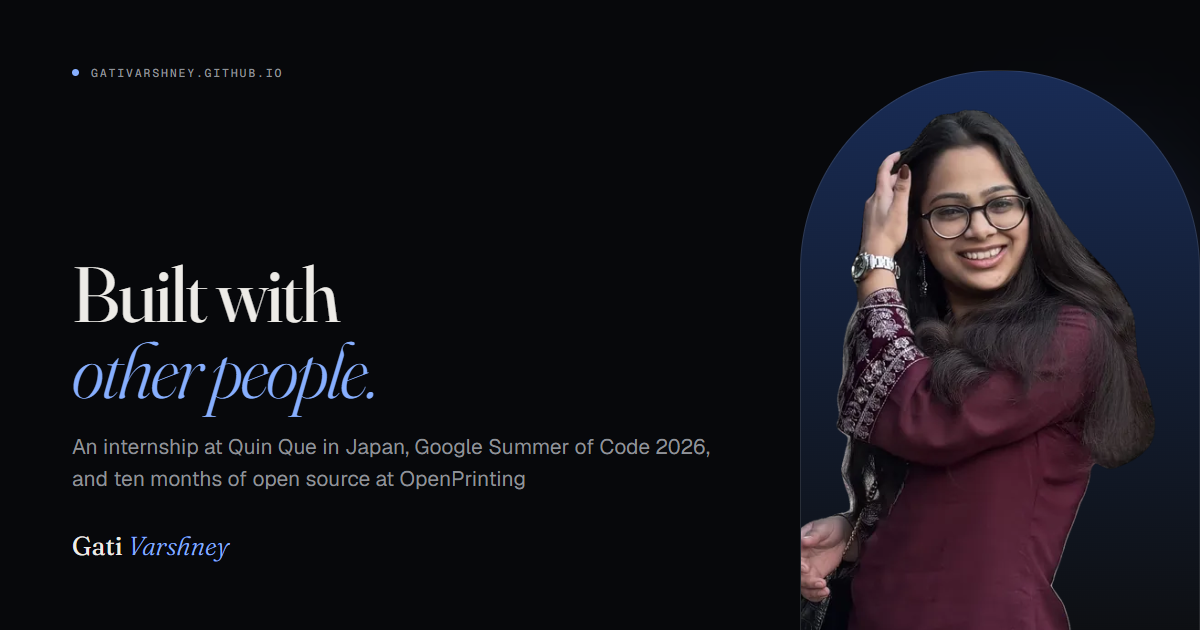
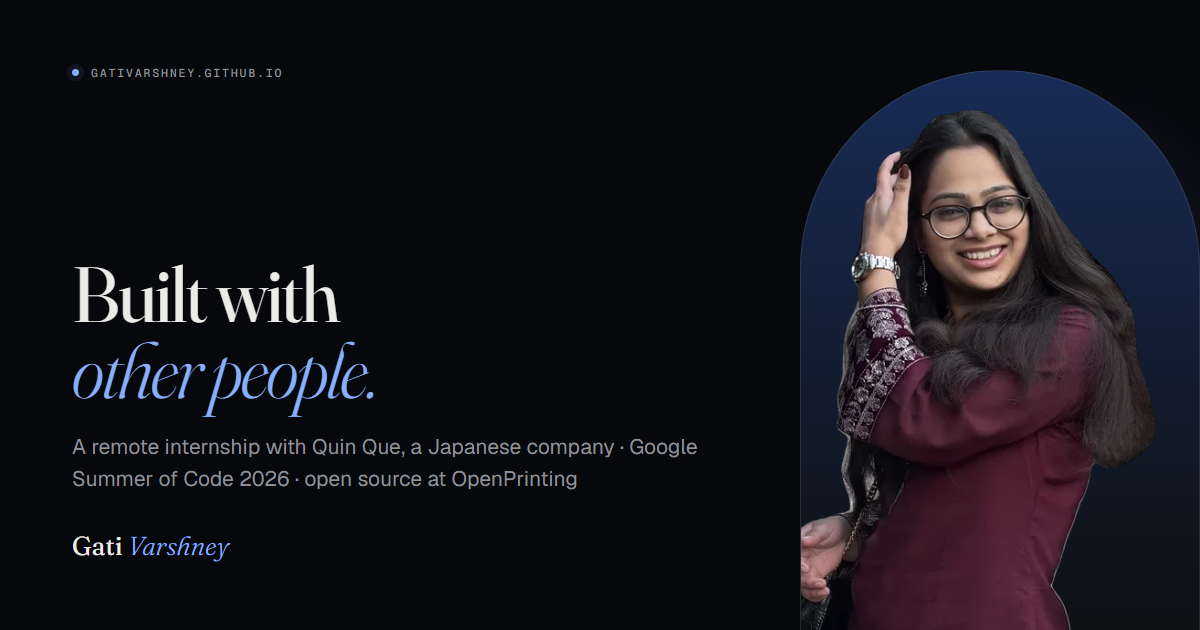
Quin Que: word it everywhere as a remote internship with a Japanese company

Changed region(s): [[0.0617, 0.6937, 0.5858, 0.7841]]

diff --git a/src/data/site.ts b/src/data/site.ts
@@ -116,10 +116,10 @@ export const milestones: Entry[] = [
   {
     slug: 'quin-que',
     title: 'Quin Que',
-    kicker: 'Software Engineer Intern · Quin Que, Kobe, Japan · Remote',
+    kicker: 'Software Engineer Intern · Remote · Quin Que, a Japanese company',
     period: 'Sep 2026',
     status: { label: 'International internship', tone: 'accent' },
-    tags: ['Japan', 'Remote', 'Rapilogi', 'warehouse reception management'],
+    tags: ['Remote', 'Japanese company', 'Rapilogi', 'warehouse reception management'],
     summary:
       'A first industry role, and an international one: Software Engineer Intern at Quin Que, a Japanese company based in Kobe, working remotely on Rapilogi, a warehouse reception management system. This is private company work, so only the public outline is shown here.',
     evidence: [],
@@ -389,7 +389,7 @@ export const recommendations: Recommendation[] = [
 /* Hero strip                                                          */
 /* ------------------------------------------------------------------ */
 export const record = [
-  { k: 'Sep 2026 · International · Remote', v: 'Software Engineer Intern · Quin Que, Kobe, Japan', m: 'Rapilogi · warehouse reception management' },
+  { k: 'Sep 2026 · International · Remote', v: 'Software Engineer Intern · Quin Que, a Japanese company', m: 'Rapilogi · warehouse reception management' },
   { k: 'Summer 2026', v: 'Google Summer of Code · OpenPrinting', m: 'printer recommendations + NL assistant · completed' },
   { k: 'Nov 2025 – Aug 2026', v: 'OpenPrinting website contributor', m: '14 pull requests merged · Hall of Fame' },
 ];
